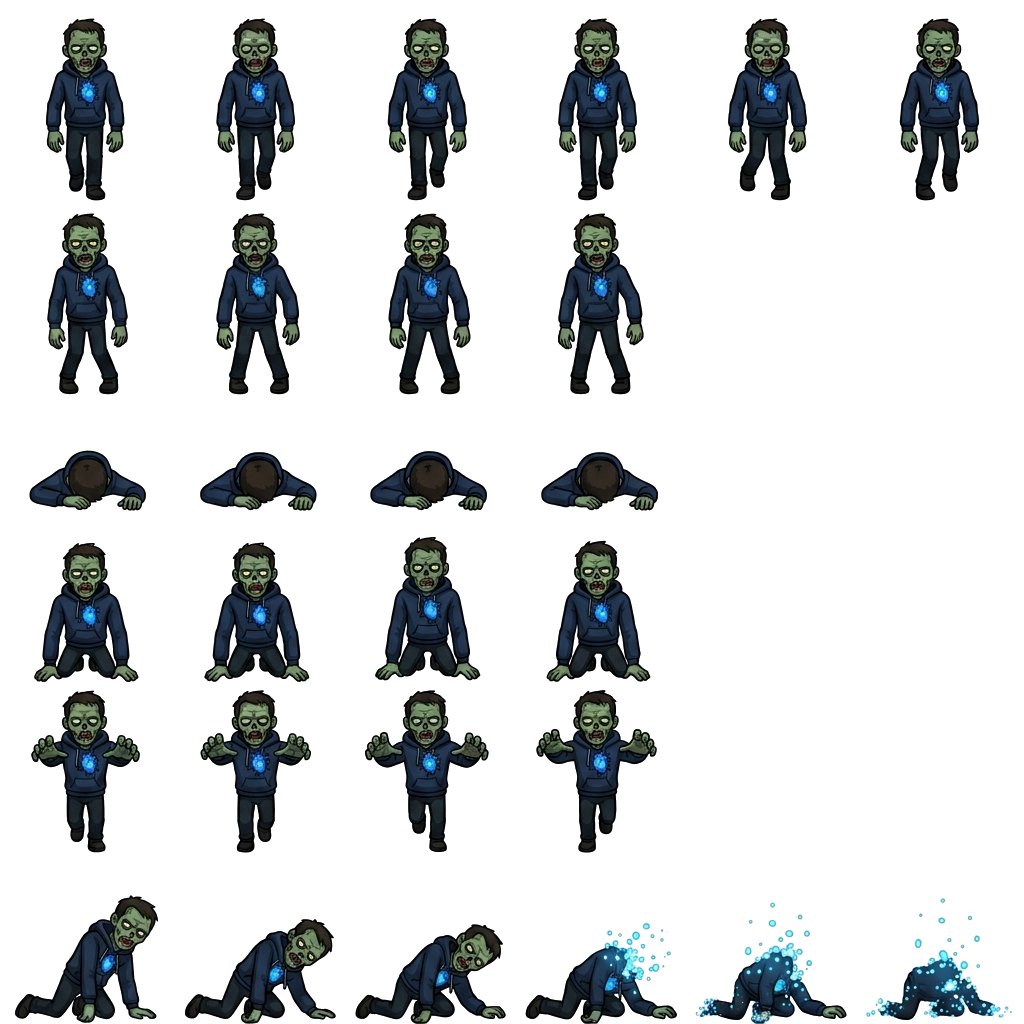
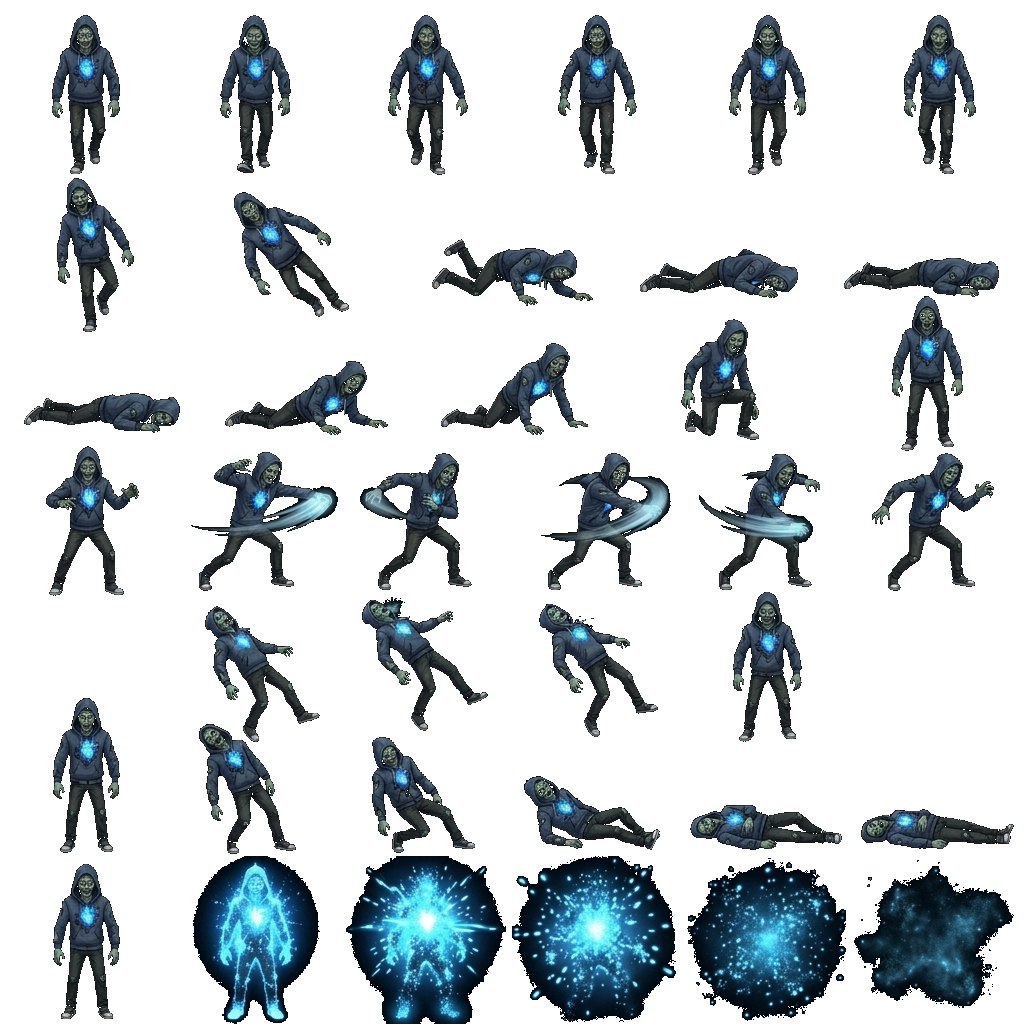
add game

diff --git a/defender.html b/defender.html
@@ -658,24 +658,52 @@
     };
     playerImg.src = 'assets/img/defender/player.jpg';
 
-    const zombieImg = new Image();
-    zombieImg.onload = () => {
-      console.log(`Zombie sprite loaded: ${zombieImg.width}x${zombieImg.height}`);
-      const cols = 6;
-      const rows = 6;
-      window.zombieGrid = {
-        fw: Math.floor(zombieImg.width / cols),
-        fh: Math.floor(zombieImg.height / rows),
-        sequences: {
-          walk: { row: 0, length: 6, loop: true, speed: 8 },
-          fall: { row: 2, length: 4, loop: false, speed: 6, next: 'getup' },
-          getup: { row: 3, length: 4, loop: false, speed: 8, next: 'walk' },
-          attack: { row: 4, length: 4, loop: false, speed: 6, next: 'walk' },
-          die: { row: 5, length: 6, loop: false, speed: 7 }
+    const ZOMBIE_TYPES = {
+      normal: {
+        src: 'assets/img/defender/zombie.png',
+        cols: 6, rows: 7,
+        img: new Image(),
+        grid: null,
+        stats: { hpBase: 80, hpScale: 35, speedMult: 1.0, radiusMult: 1.0, animSpeedMult: 1.0 }
+      },
+      tank: {
+        src: 'assets/img/defender/zombie_tank.png',
+        cols: 8, rows: 7,
+        img: new Image(),
+        grid: null,
+        stats: { hpBase: 400, hpScale: 100, speedMult: 0.6, radiusMult: 1.8, animSpeedMult: 0.8 },
+        seqOverrides: {
+          walk: 7,
+          fall: 6,
+          getup: 5,
+          attack: 7,
+          hit: 4,
+          die_collapse: 7,
+          die_explode: 6
         }
-      };
+      }
     };
-    zombieImg.src = 'assets/img/defender/zombie.png';
+
+    // Initialize Zombie Types
+    Object.keys(ZOMBIE_TYPES).forEach(key => {
+      const type = ZOMBIE_TYPES[key];
+      type.img.onload = () => {
+        type.grid = {
+          fw: type.img.width / type.cols,
+          fh: type.img.height / type.rows,
+          sequences: {
+            walk:        { row: 0, length: type.seqOverrides?.walk || 6, loop: true,  speed: 8 / type.stats.animSpeedMult },
+            fall:        { row: 1, length: type.seqOverrides?.fall || 5, loop: false, speed: 6 / type.stats.animSpeedMult },
+            getup:       { row: 2, length: type.seqOverrides?.getup || 5, loop: false, speed: 8 / type.stats.animSpeedMult },
+            attack:      { row: 3, length: type.seqOverrides?.attack || 6, loop: false, speed: 5 / type.stats.animSpeedMult },
+            hit:         { row: 4, length: type.seqOverrides?.hit || 4, loop: false, speed: 4 / type.stats.animSpeedMult },
+            die_collapse:{ row: 5, length: type.seqOverrides?.die_collapse || 6, loop: false, speed: 7 / type.stats.animSpeedMult },
+            die_explode: { row: 6, length: type.seqOverrides?.die_explode || 6, loop: false, speed: 6 / type.stats.animSpeedMult }
+          }
+        };
+      };
+      type.img.src = type.src;
+    });
 
     let width, height;
     let gameRunning = false;
@@ -702,7 +730,7 @@
       playerY: 0.82,
       enemySpawnRate: 85,
       projectileSpeed: 12, // Faster bullets
-      enemySpeedBase: 0.9, // Slower enemies
+      enemySpeedBase: 0.25, // Much slower enemies
       fireRateDelay: 60, // Slower base fire rate (1 shot/sec)
       colors: {
         cyan: '#00f2ff',
@@ -725,7 +753,7 @@
        CLASSES
     ============================================= */
     class Projectile {
-      constructor(x, y, angle, isCrit = false, bounces = 0) {
+      constructor(x, y, angle, isCrit = false, bounces = 0, canSplit = true) {
         this.x = x;
         this.y = y;
         this.angle = angle;
@@ -735,6 +763,7 @@
         this.isCrit = isCrit;
         this.pierceLeft = CONFIG.pierceCount;
         this.bouncesLeft = bounces;
+        this.canSplit = canSplit;
       }
 
       update() {
@@ -778,24 +807,46 @@
         this.radius = Math.random() * 5 + 15;
         this.x = Math.random() * (width - this.radius * 2) + this.radius;
         this.y = -this.radius;
-        this.speed = Math.random() * 0.8 + CONFIG.enemySpeedBase;
+        
+        // Determine type based on random weights
+        const rand = Math.random();
+        this.zType = 'normal';
+        if (level >= 10 && rand < 0.2) this.zType = 'tank';
+        else if (rand < 0.4) this.type = 'zigzag'; // Keep movement type zigzag
+        
+        const config = ZOMBIE_TYPES[this.zType] || ZOMBIE_TYPES.normal;
+        
+        // Stats and scaling
+        const levelSpeedBoost = (level - 1) * 0.03; 
+        this.radius *= config.stats.radiusMult;
+        this.speed = (Math.random() * 0.2 + CONFIG.enemySpeedBase * config.stats.speedMult) + levelSpeedBoost;
+        
         this.active = true;
-        this.color = Math.random() > 0.3 ? CONFIG.colors.pink : CONFIG.colors.gold;
         this.angle = 0;
         this.knockbackY = 0;
-        this.maxHp = 50 + (level * 15);
+        
+        this.maxHp = config.stats.hpBase + (level * config.stats.hpScale); 
         this.hp = this.maxHp;
 
-        // Animation
+        // Visuals
+        this.color = this.zType === 'tank' ? '#ff4400' : (this.type === 'zigzag' ? CONFIG.colors.cyan : (Math.random() > 0.3 ? CONFIG.colors.pink : CONFIG.colors.gold));
+        this.sinOffset = Math.random() * Math.PI * 2;
+        this.sinSpeed = 0.04;
+        this.sinAmp = this.type === 'zigzag' ? 2.5 : 0;
+
+        // Animation state
         this.state = 'walk';
         this.frameIndex = 0;
         this.animTimer = 0;
         this.isDead = false;
         this.deathComplete = false;
+        this.isAttacking = false;
+        this.dieState = Math.random() < 0.5 ? 'die_collapse' : 'die_explode';
       }
 
       setState(newState) {
-        if (this.isDead && newState !== 'die') return;
+        // When dead, only allow death animation states
+        if (this.isDead && newState !== 'die_collapse' && newState !== 'die_explode') return;
         if (this.state === newState) return;
         this.state = newState;
         this.frameIndex = 0;
@@ -804,18 +855,32 @@
 
       update() {
         if (!this.isDead) {
-          this.y += this.speed + this.knockbackY;
-          this.knockbackY *= 0.9;
+          if (!this.isAttacking) {
+            this.y += this.speed + this.knockbackY;
+            this.knockbackY *= 0.9;
 
-          if (this.y > height + this.radius) {
-            this.active = false;
-            takeDamage(10);
+            // Zigzag movement logic
+            if (this.type === 'zigzag') {
+              this.x += Math.sin(frameCount * this.sinSpeed + this.sinOffset) * this.sinAmp;
+              // Keep within bounds
+              if (this.x < this.radius) this.x = this.radius;
+              if (this.x > width - this.radius) this.x = width - this.radius;
+            }
+
+            // Stop when reaching the player zone and start attacking
+            const attackStopY = height * CONFIG.playerY - 45;
+            if (this.y >= attackStopY) {
+              this.y = attackStopY;
+              this.isAttacking = true;
+              this.setState('attack');
+            }
           }
         }
 
         // Animation logic
-        if (window.zombieGrid) {
-          const seq = window.zombieGrid.sequences[this.state];
+        const config = ZOMBIE_TYPES[this.zType] || ZOMBIE_TYPES.normal;
+        if (config.grid) {
+          const seq = config.grid.sequences[this.state];
           if (seq) {
             this.animTimer++;
             if (this.animTimer >= seq.speed) {
@@ -824,14 +889,26 @@
               if (this.frameIndex >= seq.length) {
                 if (seq.loop) {
                   this.frameIndex = 0;
+                } else if (this.state === 'attack') {
+                  // Loop attack and deal damage each full cycle
+                  this.frameIndex = 0;
+                  if (!this.isDead) takeDamage(8);
+                } else if (this.state === 'fall') {
+                  this.setState('getup');
+                } else if (this.state === 'getup') {
+                  this.isAttacking = false;
+                  this.setState('walk');
+                } else if (this.state === 'hit') {
+                  if (this.isAttacking) {
+                    this.setState('attack');
+                  } else {
+                    this.setState('walk');
+                  }
+                } else if (this.state === 'die_collapse' || this.state === 'die_explode') {
+                  this.deathComplete = true;
+                  this.active = false;
                 } else {
                   this.frameIndex = seq.length - 1;
-                  if (seq.next) {
-                    this.setState(seq.next);
-                  } else if (this.state === 'die') {
-                    this.deathComplete = true;
-                    this.active = false;
-                  }
                 }
               }
             }
@@ -843,30 +920,50 @@
         ctx.save();
         ctx.translate(this.x, this.y);
 
-        // HP Bar (only if not dead)
-        if (!this.isDead) {
-          const barW = this.radius * 2;
-          const barH = 4;
-          ctx.fillStyle = 'rgba(255, 255, 255, 0.1)';
-          ctx.fillRect(-barW / 2, -this.radius - 20, barW, barH);
-          ctx.fillStyle = this.hp / this.maxHp > 0.3 ? this.color : '#ff0000';
-          ctx.fillRect(-barW / 2, -this.radius - 20, barW * (this.hp / this.maxHp), barH);
-        }
+        const config = ZOMBIE_TYPES[this.zType] || ZOMBIE_TYPES.normal;
+        const currentImg = config.img;
+        const currentGrid = config.grid;
 
-        if (zombieImg.complete && window.zombieGrid) {
-          const g = window.zombieGrid;
+        if (currentImg.complete && currentGrid) {
+          const g = currentGrid;
           const seq = g.sequences[this.state];
           const sx = this.frameIndex * g.fw;
           const sy = seq.row * g.fh;
+ 
+          // Separate parameters for each zombie type to avoid one affecting the other
+          let shMult = 1.0;
+          let yOffset = 0.95;
+          
+          if (this.zType === 'tank') {
+            shMult = 1.0; // Tank is tall enough with 7 rows, no extra height needed
+            yOffset = 0.93;
+          } else {
+            shMult = 1.25; // Normal zombie needs extra height for feet
+            yOffset = 0.9;
+          }
 
-          // Adjusted draw size to ensure full body visibility
-          const drawSize = this.radius * 5; 
+          const sh = g.fh * shMult; 
+          const sw = g.fw; 
+          const aspect = sh / g.fw;
+          const dw = this.radius * 5; 
+          const dh = dw * aspect;
+
           ctx.drawImage(
-            zombieImg,
-            sx, sy, g.fw, g.fh,
-            -drawSize / 2, -drawSize / 2, drawSize, drawSize
+            currentImg,
+            sx, sy, sw, sh,
+            -dw / 2, -dh * yOffset, dw, dh
           );
 
+          // HP Bar (drawn AFTER sprite so it is on top)
+          if (!this.isDead) {
+            const barW = this.radius * 2;
+            const barH = 4;
+            const barY = -dh * 0.9; // Position above the zombie's head
+            ctx.fillStyle = 'rgba(255, 255, 255, 0.1)';
+            ctx.fillRect(-barW / 2, barY, barW, barH);
+            ctx.fillStyle = this.hp / this.maxHp > 0.3 ? this.color : '#ff0000';
+            ctx.fillRect(-barW / 2, barY, barW * (this.hp / this.maxHp), barH);
+          }
         } else {
           // Fallback
           ctx.rotate(this.angle);
@@ -879,13 +976,11 @@
             const ang = (i / 6) * Math.PI * 2;
             const px = Math.cos(ang) * this.radius;
             const py = Math.sin(ang) * this.radius;
-            if (i === 0) ctx.moveTo(px, py);
-            else ctx.lineTo(px, py);
+            if (i === 0) ctx.moveTo(px, py); else ctx.lineTo(px, py);
           }
           ctx.closePath();
           ctx.stroke();
         }
-
         ctx.restore();
       }
     }
@@ -937,7 +1032,7 @@
     }
 
     function spawnEnemy() {
-      const rate = Math.max(20, CONFIG.enemySpawnRate - (level * 2));
+      const rate = Math.max(12, CONFIG.enemySpawnRate - (level * 3));
       if (frameCount % rate === 0) {
         enemies.push(new Enemy());
       }
@@ -1091,6 +1186,7 @@
       }
 
       // Update enemies & Collisions
+      const newProjectiles = [];
       for (let i = enemies.length - 1; i >= 0; i--) {
         const e = enemies[i];
         e.update();
@@ -1111,7 +1207,7 @@
             if (CONFIG.knockbackForce > 0) {
               e.knockbackY = -CONFIG.knockbackForce;
               if (CONFIG.knockbackForce > 1) {
-                e.setState('fall');
+                e.setState('hit'); // Temporarily use 'hit' instead of 'fall'
               }
             }
 
@@ -1121,9 +1217,12 @@
             e.hp -= dmg;
 
             // Split logic
-            if (CONFIG.splitOnHit) {
-              projectiles.push(new Projectile(e.x, e.y, p.angle - 0.5, false, 0));
-              projectiles.push(new Projectile(e.x, e.y, p.angle + 0.5, false, 0));
+            if (CONFIG.splitOnHit && p.canSplit) {
+              const offsetX = Math.cos(p.angle) * 10;
+              const offsetY = Math.sin(p.angle) * 10;
+              newProjectiles.push(new Projectile(e.x + offsetX, e.y + offsetY, p.angle - 0.5, false, 0, false));
+              newProjectiles.push(new Projectile(e.x + offsetX, e.y + offsetY, p.angle + 0.5, false, 0, false));
+              p.canSplit = false;
             }
 
             createExplosion(e.x, e.y, e.color);
@@ -1138,13 +1237,17 @@
 
             if (e.hp <= 0 && !e.isDead) {
               e.isDead = true;
-              e.setState('die');
+              e.setState(e.dieState);
               score += 100;
               gainXp(25);
               break;
             }
           }
         }
+      }
+      // Add split projectiles to main array after loop
+      if (newProjectiles.length > 0) {
+        projectiles.push(...newProjectiles);
       }
 
       // Update particles

diff --git a/remove_bg.js b/remove_bg.js
@@ -1,0 +1,33 @@
+const { Jimp } = require('jimp');
+const path = require('path');
+
+async function processImage(fileName) {
+  try {
+    const filePath = path.join(__dirname, 'assets', 'img', 'defender', fileName);
+    console.log(`Reading ${filePath}...`);
+    const image = await Jimp.read(filePath);
+    
+    image.scan(0, 0, image.bitmap.width, image.bitmap.height, function(x, y, idx) {
+      const r = this.bitmap.data[idx + 0];
+      const g = this.bitmap.data[idx + 1];
+      const b = this.bitmap.data[idx + 2];
+      
+      // If the pixel is white or very close to white
+      if (r > 245 && g > 245 && b > 245) {
+        this.bitmap.data[idx + 3] = 0;
+      }
+    });
+
+    await image.write(filePath);
+    console.log(`Successfully processed and saved ${fileName}`);
+  } catch (err) {
+    console.error(`Error processing ${fileName}:`, err);
+  }
+}
+
+async function main() {
+  await processImage('zombie_tank.png');
+  await processImage('zombie.png');
+}
+
+main();